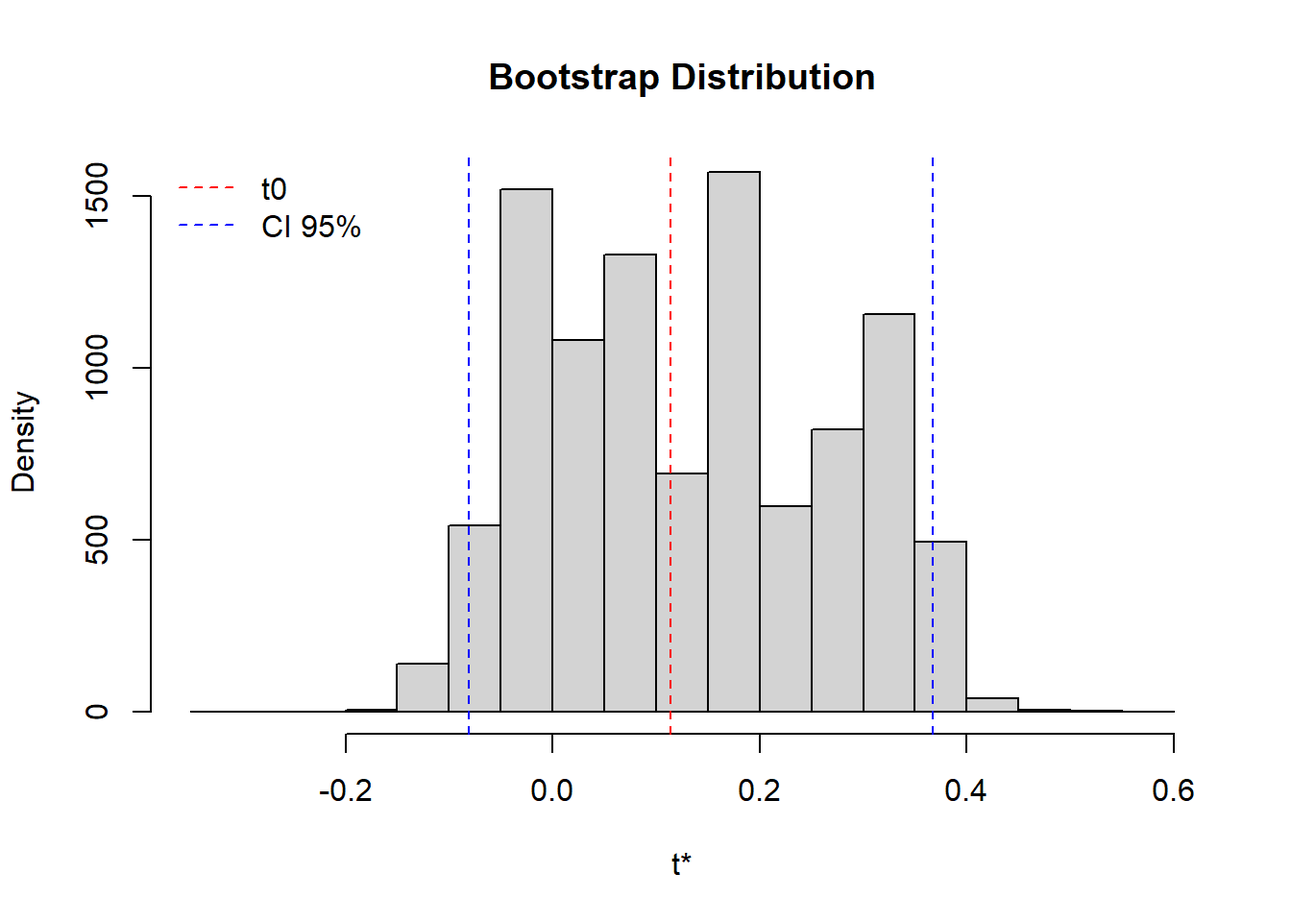
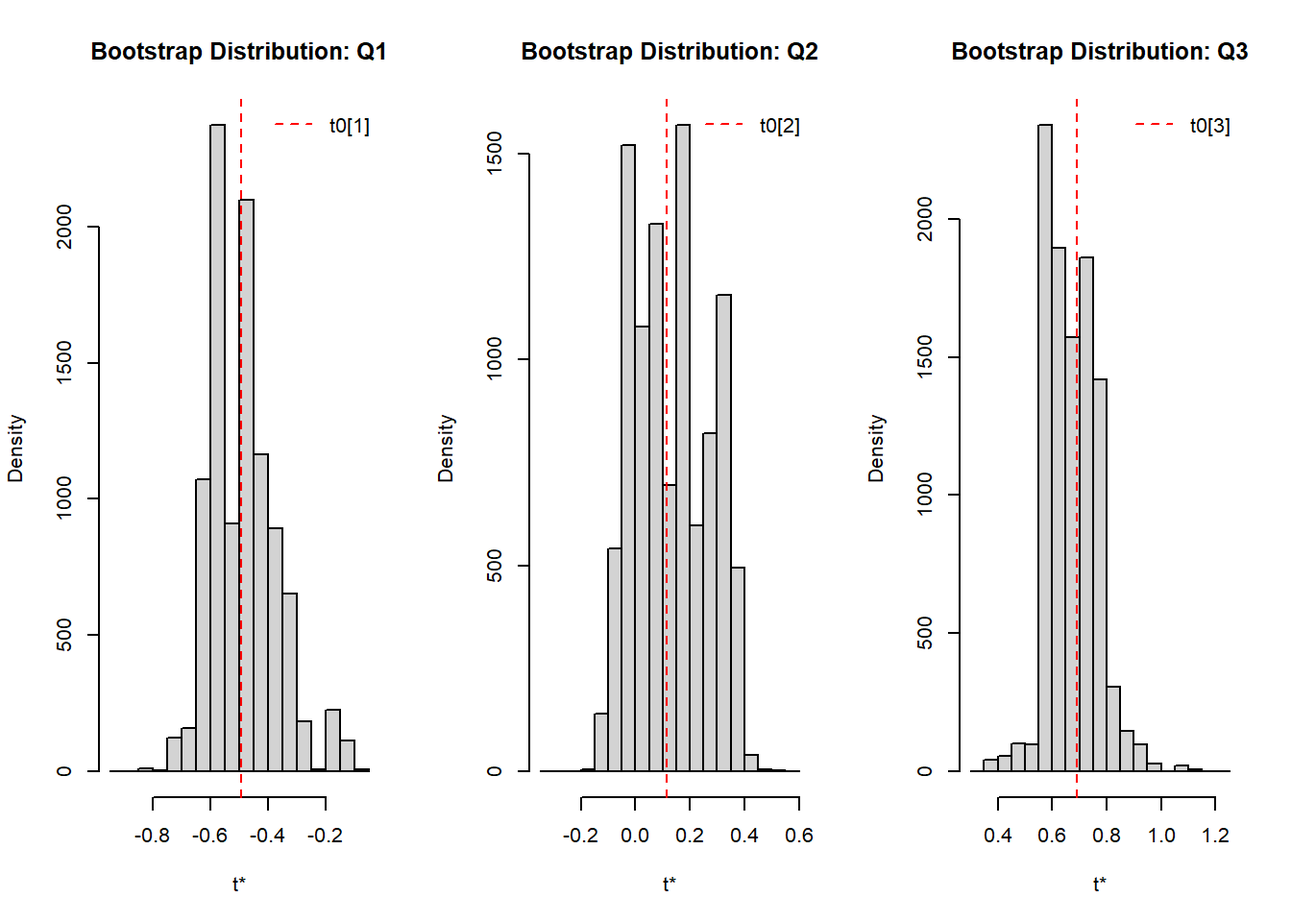
update latest posts

diff --git a/_site/posts/bootstrapping/bootstrapping.html b/_site/posts/bootstrapping/bootstrapping.html
@@ -206,8 +206,7 @@ pre > code.sourceCode > span > a:first-child::before { text-decoration: underlin
   <li><a href="#monte-carlo-simulation" id="toc-monte-carlo-simulation" class="nav-link" data-scroll-target="#monte-carlo-simulation">Monte Carlo Simulation</a></li>
   <li><a href="#r-code" id="toc-r-code" class="nav-link" data-scroll-target="#r-code">R code</a>
   <ul class="collapse">
-  <li><a href="#example-1-univariate-statistic-median" id="toc-example-1-univariate-statistic-median" class="nav-link" data-scroll-target="#example-1-univariate-statistic-median">Example 1 <strong>–</strong> Univariate Statistic (Median)</a></li>
-  <li><a href="#example-2-multivariate-statistic-median" id="toc-example-2-multivariate-statistic-median" class="nav-link" data-scroll-target="#example-2-multivariate-statistic-median">Example 2 <strong>–</strong> Multivariate Statistic (Median)</a></li>
+  <li><a href="#example-1-multivariate-statistic-median" id="toc-example-1-multivariate-statistic-median" class="nav-link" data-scroll-target="#example-1-multivariate-statistic-median">Example 1 <strong>–</strong> Multivariate Statistic (Median)</a></li>
   </ul></li>
   </ul>
 </nav>
@@ -344,11 +343,11 @@ Note
 <li><p>bootstrap</p></li>
 <li><p>nptest</p></li>
 </ul>
-<section id="example-1-univariate-statistic-median" class="level3">
-<h3 class="anchored" data-anchor-id="example-1-univariate-statistic-median">Example 1 <strong>–</strong> Univariate Statistic (Median)</h3>
-<p>For this example, we will generate <span class="math inline">\(n = 100\)</span> observations from a standard normal distribution, and use the median as the parameter/statistic of interest. Note that the true (population) median is zero. Since the median is a univariate statistic, the bootstrap distribution will be a vector of length <span class="math inline">\(R + 1\)</span> containing the bootstrap replicates of the median.</p>
+<section id="example-1-multivariate-statistic-median" class="level3">
+<h3 class="anchored" data-anchor-id="example-1-multivariate-statistic-median">Example 1 <strong>–</strong> Multivariate Statistic (Median)</h3>
+<p>For this example, we will generate <span class="math inline">\(n = 100\)</span> observations from a standard normal distribution, and use the quartiles as the parameters/statistics of interest. Note that the true (population) quartiles are <span class="math inline">\(Q1 = qnorm(0.25) = -0.6744898\)</span>, <span class="math inline">\(Q2 = qnorm(0.5) = 0\)</span>, and <span class="math inline">\(Q3 = qnorm(0.75) = 0.6744898\)</span>. Since the quartiles are a multivariate statistic, the bootstrap distribution will be a matrix of dimension <span class="math inline">\(R + 1 × 3\)</span>, where each column contains the bootstrap replicates of the corresponding quartile.</p>
 <div class="cell">
-<div class="sourceCode cell-code" id="cb1"><pre class="sourceCode r code-with-copy"><code class="sourceCode r"><span id="cb1-1"><a href="#cb1-1" aria-hidden="true" tabindex="-1"></a><span class="co"># Univariate Statistic (Median)</span></span>
+<div class="sourceCode cell-code" id="cb1"><pre class="sourceCode r code-with-copy"><code class="sourceCode r"><span id="cb1-1"><a href="#cb1-1" aria-hidden="true" tabindex="-1"></a><span class="co"># Multivariate Statistic (Quartiles)</span></span>
 <span id="cb1-2"><a href="#cb1-2" aria-hidden="true" tabindex="-1"></a></span>
 <span id="cb1-3"><a href="#cb1-3" aria-hidden="true" tabindex="-1"></a><span class="fu">library</span>(nptest)</span></code><button title="Copy to Clipboard" class="code-copy-button"><i class="bi"></i></button></pre></div>
 <div class="cell-output cell-output-stderr">
@@ -360,86 +359,11 @@ Type 'citation("nptest")' to cite this package.</code></pre>
 <span id="cb3-3"><a href="#cb3-3" aria-hidden="true" tabindex="-1"></a>n <span class="ot">&lt;-</span> <span class="dv">100</span></span>
 <span id="cb3-4"><a href="#cb3-4" aria-hidden="true" tabindex="-1"></a>x <span class="ot">&lt;-</span> <span class="fu">rnorm</span>(n)</span>
 <span id="cb3-5"><a href="#cb3-5" aria-hidden="true" tabindex="-1"></a></span>
-<span id="cb3-6"><a href="#cb3-6" aria-hidden="true" tabindex="-1"></a><span class="co"># nonparametric bootstrap</span></span>
-<span id="cb3-7"><a href="#cb3-7" aria-hidden="true" tabindex="-1"></a>npbs <span class="ot">&lt;-</span> <span class="fu">np.boot</span>(<span class="at">x =</span> x, <span class="at">statistic =</span> median)</span>
-<span id="cb3-8"><a href="#cb3-8" aria-hidden="true" tabindex="-1"></a>npbs</span></code><button title="Copy to Clipboard" class="code-copy-button"><i class="bi"></i></button></pre></div>
-<div class="cell-output cell-output-stdout">
-<pre><code>
-Nonparametric Bootstrap of Univariate Statistic
-using R = 9999 bootstrap replicates
-
-  t0: 0.1139
-  SE: 0.1394
-Bias: 0.0185 
-
-BCa Confidence Intervals:
-      lower  upper
-90% -0.0566 0.3411
-95% -0.0811 0.3673
-99% -0.1351 0.3940</code></pre>
-</div>
-<div class="sourceCode cell-code" id="cb5"><pre class="sourceCode r code-with-copy"><code class="sourceCode r"><span id="cb5-1"><a href="#cb5-1" aria-hidden="true" tabindex="-1"></a><span class="co"># check t0, SE, and bias</span></span>
-<span id="cb5-2"><a href="#cb5-2" aria-hidden="true" tabindex="-1"></a><span class="fu">median</span>(x)                          <span class="co"># t0</span></span></code><button title="Copy to Clipboard" class="code-copy-button"><i class="bi"></i></button></pre></div>
-<div class="cell-output cell-output-stdout">
-<pre><code>[1] 0.1139092</code></pre>
-</div>
-<div class="sourceCode cell-code" id="cb7"><pre class="sourceCode r code-with-copy"><code class="sourceCode r"><span id="cb7-1"><a href="#cb7-1" aria-hidden="true" tabindex="-1"></a><span class="fu">sd</span>(npbs<span class="sc">$</span>boot.dist)                 <span class="co"># SE</span></span></code><button title="Copy to Clipboard" class="code-copy-button"><i class="bi"></i></button></pre></div>
-<div class="cell-output cell-output-stdout">
-<pre><code>[1] 0.1393567</code></pre>
-</div>
-<div class="sourceCode cell-code" id="cb9"><pre class="sourceCode r code-with-copy"><code class="sourceCode r"><span id="cb9-1"><a href="#cb9-1" aria-hidden="true" tabindex="-1"></a><span class="fu">mean</span>(npbs<span class="sc">$</span>boot.dist) <span class="sc">-</span> npbs<span class="sc">$</span>t0     <span class="co"># Bias</span></span></code><button title="Copy to Clipboard" class="code-copy-button"><i class="bi"></i></button></pre></div>
-<div class="cell-output cell-output-stdout">
-<pre><code>[1] 0.01845341</code></pre>
-</div>
-<div class="sourceCode cell-code" id="cb11"><pre class="sourceCode r code-with-copy"><code class="sourceCode r"><span id="cb11-1"><a href="#cb11-1" aria-hidden="true" tabindex="-1"></a><span class="co"># bootstrap distribution</span></span>
-<span id="cb11-2"><a href="#cb11-2" aria-hidden="true" tabindex="-1"></a><span class="fu">hist</span>(npbs<span class="sc">$</span>boot.dist,</span>
-<span id="cb11-3"><a href="#cb11-3" aria-hidden="true" tabindex="-1"></a>     <span class="at">xlab =</span> <span class="st">"t*"</span>,</span>
-<span id="cb11-4"><a href="#cb11-4" aria-hidden="true" tabindex="-1"></a>     <span class="at">ylab =</span> <span class="st">"Density"</span>,</span>
-<span id="cb11-5"><a href="#cb11-5" aria-hidden="true" tabindex="-1"></a>     <span class="at">main =</span> <span class="st">"Bootstrap Distribution"</span>)</span>
-<span id="cb11-6"><a href="#cb11-6" aria-hidden="true" tabindex="-1"></a></span>
-<span id="cb11-7"><a href="#cb11-7" aria-hidden="true" tabindex="-1"></a><span class="co"># Observed media</span></span>
-<span id="cb11-8"><a href="#cb11-8" aria-hidden="true" tabindex="-1"></a><span class="fu">abline</span>(<span class="at">v =</span> npbs<span class="sc">$</span>t0,</span>
-<span id="cb11-9"><a href="#cb11-9" aria-hidden="true" tabindex="-1"></a>       <span class="at">lty =</span> <span class="dv">2</span>,</span>
-<span id="cb11-10"><a href="#cb11-10" aria-hidden="true" tabindex="-1"></a>       <span class="at">col =</span> <span class="st">"red"</span>)</span>
-<span id="cb11-11"><a href="#cb11-11" aria-hidden="true" tabindex="-1"></a></span>
-<span id="cb11-12"><a href="#cb11-12" aria-hidden="true" tabindex="-1"></a><span class="co"># CI 95% lower boundary</span></span>
-<span id="cb11-13"><a href="#cb11-13" aria-hidden="true" tabindex="-1"></a><span class="fu">abline</span>(<span class="at">v =</span> npbs<span class="sc">$</span>bca[<span class="dv">2</span>, <span class="dv">1</span>],</span>
-<span id="cb11-14"><a href="#cb11-14" aria-hidden="true" tabindex="-1"></a>       <span class="at">lty =</span> <span class="dv">2</span>,</span>
-<span id="cb11-15"><a href="#cb11-15" aria-hidden="true" tabindex="-1"></a>       <span class="at">col =</span> <span class="st">"blue"</span>)</span>
-<span id="cb11-16"><a href="#cb11-16" aria-hidden="true" tabindex="-1"></a></span>
-<span id="cb11-17"><a href="#cb11-17" aria-hidden="true" tabindex="-1"></a><span class="co"># CI 95% upper boundary</span></span>
-<span id="cb11-18"><a href="#cb11-18" aria-hidden="true" tabindex="-1"></a><span class="fu">abline</span>(<span class="at">v =</span> npbs<span class="sc">$</span>bca[<span class="dv">2</span>, <span class="dv">2</span>],</span>
-<span id="cb11-19"><a href="#cb11-19" aria-hidden="true" tabindex="-1"></a>       <span class="at">lty =</span> <span class="dv">2</span>,</span>
-<span id="cb11-20"><a href="#cb11-20" aria-hidden="true" tabindex="-1"></a>       <span class="at">col =</span> <span class="st">"blue"</span>)</span>
-<span id="cb11-21"><a href="#cb11-21" aria-hidden="true" tabindex="-1"></a></span>
-<span id="cb11-22"><a href="#cb11-22" aria-hidden="true" tabindex="-1"></a><span class="fu">legend</span>(</span>
-<span id="cb11-23"><a href="#cb11-23" aria-hidden="true" tabindex="-1"></a>  <span class="st">"topleft"</span>,</span>
-<span id="cb11-24"><a href="#cb11-24" aria-hidden="true" tabindex="-1"></a>  <span class="at">legend =</span> <span class="fu">c</span>(<span class="st">"t0"</span>, <span class="st">"CI 95%"</span>),</span>
-<span id="cb11-25"><a href="#cb11-25" aria-hidden="true" tabindex="-1"></a>  <span class="at">col =</span> <span class="fu">c</span>(<span class="st">"red"</span>, <span class="st">"blue"</span>),</span>
-<span id="cb11-26"><a href="#cb11-26" aria-hidden="true" tabindex="-1"></a>  <span class="at">lty =</span> <span class="dv">2</span>,</span>
-<span id="cb11-27"><a href="#cb11-27" aria-hidden="true" tabindex="-1"></a>  <span class="at">bty =</span> <span class="st">"n"</span></span>
-<span id="cb11-28"><a href="#cb11-28" aria-hidden="true" tabindex="-1"></a>)</span></code><button title="Copy to Clipboard" class="code-copy-button"><i class="bi"></i></button></pre></div>
-<div class="cell-output-display">
-<p><img src="bootstrapping_files/figure-html/unnamed-chunk-1-1.png" class="img-fluid" width="672"></p>
-</div>
-</div>
-</section>
-<section id="example-2-multivariate-statistic-median" class="level3">
-<h3 class="anchored" data-anchor-id="example-2-multivariate-statistic-median">Example 2 <strong>–</strong> Multivariate Statistic (Median)</h3>
-<p>For this example, we will generate <span class="math inline">\(n = 100\)</span> observations from a standard normal distribution, and use the quartiles as the parameters/statistics of interest. Note that the true (population) quartiles are <span class="math inline">\(Q1 = qnorm(0.25) = -0.6744898\)</span>, <span class="math inline">\(Q2 = qnorm(0.5) = 0\)</span>, and <span class="math inline">\(Q3 = qnorm(0.75) = 0.6744898\)</span>. Since the quartiles are a multivariate statistic, the bootstrap distribution will be a matrix of dimension <span class="math inline">\(R + 1 × 3\)</span>, where each column contains the bootstrap replicates of the corresponding quartile.</p>
-<div class="cell">
-<div class="sourceCode cell-code" id="cb12"><pre class="sourceCode r code-with-copy"><code class="sourceCode r"><span id="cb12-1"><a href="#cb12-1" aria-hidden="true" tabindex="-1"></a><span class="co"># Multivariate Statistic (Quartiles)</span></span>
-<span id="cb12-2"><a href="#cb12-2" aria-hidden="true" tabindex="-1"></a></span>
-<span id="cb12-3"><a href="#cb12-3" aria-hidden="true" tabindex="-1"></a><span class="co"># generate 100 standard normal observations</span></span>
-<span id="cb12-4"><a href="#cb12-4" aria-hidden="true" tabindex="-1"></a><span class="fu">set.seed</span>(<span class="dv">1</span>)</span>
-<span id="cb12-5"><a href="#cb12-5" aria-hidden="true" tabindex="-1"></a>n <span class="ot">&lt;-</span> <span class="dv">100</span></span>
-<span id="cb12-6"><a href="#cb12-6" aria-hidden="true" tabindex="-1"></a>x <span class="ot">&lt;-</span> <span class="fu">rnorm</span>(n)</span>
-<span id="cb12-7"><a href="#cb12-7" aria-hidden="true" tabindex="-1"></a></span>
-<span id="cb12-8"><a href="#cb12-8" aria-hidden="true" tabindex="-1"></a><span class="co"># nonparametric bootstrap (using ... to enter 'probs' argument)</span></span>
-<span id="cb12-9"><a href="#cb12-9" aria-hidden="true" tabindex="-1"></a>npbs <span class="ot">&lt;-</span> <span class="fu">np.boot</span>(<span class="at">x =</span> x,</span>
-<span id="cb12-10"><a href="#cb12-10" aria-hidden="true" tabindex="-1"></a>                <span class="at">statistic =</span> quantile,</span>
-<span id="cb12-11"><a href="#cb12-11" aria-hidden="true" tabindex="-1"></a>                <span class="at">probs =</span> <span class="fu">c</span>(<span class="fl">0.25</span>, <span class="fl">0.5</span>, <span class="fl">0.75</span>))</span>
-<span id="cb12-12"><a href="#cb12-12" aria-hidden="true" tabindex="-1"></a>npbs</span></code><button title="Copy to Clipboard" class="code-copy-button"><i class="bi"></i></button></pre></div>
+<span id="cb3-6"><a href="#cb3-6" aria-hidden="true" tabindex="-1"></a><span class="co"># nonparametric bootstrap (using ... to enter 'probs' argument)</span></span>
+<span id="cb3-7"><a href="#cb3-7" aria-hidden="true" tabindex="-1"></a>npbs <span class="ot">&lt;-</span> <span class="fu">np.boot</span>(<span class="at">x =</span> x,</span>
+<span id="cb3-8"><a href="#cb3-8" aria-hidden="true" tabindex="-1"></a>                <span class="at">statistic =</span> quantile,</span>
+<span id="cb3-9"><a href="#cb3-9" aria-hidden="true" tabindex="-1"></a>                <span class="at">probs =</span> <span class="fu">c</span>(<span class="fl">0.25</span>, <span class="fl">0.5</span>, <span class="fl">0.75</span>))</span>
+<span id="cb3-10"><a href="#cb3-10" aria-hidden="true" tabindex="-1"></a>npbs</span></code><button title="Copy to Clipboard" class="code-copy-button"><i class="bi"></i></button></pre></div>
 <div class="cell-output cell-output-stdout">
 <pre><code>
 Nonparametric Bootstrap of Multivariate Statistic
@@ -455,28 +379,28 @@ Bias:  0.0058 0.0185 -0.0170
 lower -0.6941 -0.0811 0.5047
 upper -0.2534  0.3673 0.8811</code></pre>
 </div>
-<div class="sourceCode cell-code" id="cb14"><pre class="sourceCode r code-with-copy"><code class="sourceCode r"><span id="cb14-1"><a href="#cb14-1" aria-hidden="true" tabindex="-1"></a><span class="co"># bootstrap distribution</span></span>
-<span id="cb14-2"><a href="#cb14-2" aria-hidden="true" tabindex="-1"></a><span class="fu">par</span>(<span class="at">mfrow =</span> <span class="fu">c</span>(<span class="dv">1</span>, <span class="dv">3</span>))</span>
-<span id="cb14-3"><a href="#cb14-3" aria-hidden="true" tabindex="-1"></a><span class="cf">for</span> (j <span class="cf">in</span> <span class="dv">1</span><span class="sc">:</span><span class="dv">3</span>) {</span>
-<span id="cb14-4"><a href="#cb14-4" aria-hidden="true" tabindex="-1"></a>  <span class="fu">hist</span>(</span>
-<span id="cb14-5"><a href="#cb14-5" aria-hidden="true" tabindex="-1"></a>    npbs<span class="sc">$</span>boot.dist[, j],</span>
-<span id="cb14-6"><a href="#cb14-6" aria-hidden="true" tabindex="-1"></a>    <span class="at">xlab =</span> <span class="st">"t*"</span>,</span>
-<span id="cb14-7"><a href="#cb14-7" aria-hidden="true" tabindex="-1"></a>    <span class="at">ylab =</span> <span class="st">"Density"</span>,</span>
-<span id="cb14-8"><a href="#cb14-8" aria-hidden="true" tabindex="-1"></a>    <span class="at">main =</span> <span class="fu">paste0</span>(<span class="st">"Bootstrap Distribution"</span>, <span class="st">": Q"</span>, j)</span>
-<span id="cb14-9"><a href="#cb14-9" aria-hidden="true" tabindex="-1"></a>  )</span>
-<span id="cb14-10"><a href="#cb14-10" aria-hidden="true" tabindex="-1"></a>  <span class="fu">abline</span>(<span class="at">v =</span> npbs<span class="sc">$</span>t0[j],</span>
-<span id="cb14-11"><a href="#cb14-11" aria-hidden="true" tabindex="-1"></a>         <span class="at">lty =</span> <span class="dv">2</span>,</span>
-<span id="cb14-12"><a href="#cb14-12" aria-hidden="true" tabindex="-1"></a>         <span class="at">col =</span> <span class="st">"red"</span>)</span>
-<span id="cb14-13"><a href="#cb14-13" aria-hidden="true" tabindex="-1"></a>  <span class="fu">legend</span>(</span>
-<span id="cb14-14"><a href="#cb14-14" aria-hidden="true" tabindex="-1"></a>    <span class="st">"topright"</span>,</span>
-<span id="cb14-15"><a href="#cb14-15" aria-hidden="true" tabindex="-1"></a>    <span class="fu">paste0</span>(<span class="st">"t0["</span>, j, <span class="st">"]"</span>),</span>
-<span id="cb14-16"><a href="#cb14-16" aria-hidden="true" tabindex="-1"></a>    <span class="at">lty =</span> <span class="dv">2</span>,</span>
-<span id="cb14-17"><a href="#cb14-17" aria-hidden="true" tabindex="-1"></a>    <span class="at">col =</span> <span class="st">"red"</span>,</span>
-<span id="cb14-18"><a href="#cb14-18" aria-hidden="true" tabindex="-1"></a>    <span class="at">bty =</span> <span class="st">"n"</span></span>
-<span id="cb14-19"><a href="#cb14-19" aria-hidden="true" tabindex="-1"></a>  )</span>
-<span id="cb14-20"><a href="#cb14-20" aria-hidden="true" tabindex="-1"></a>}</span></code><button title="Copy to Clipboard" class="code-copy-button"><i class="bi"></i></button></pre></div>
+<div class="sourceCode cell-code" id="cb5"><pre class="sourceCode r code-with-copy"><code class="sourceCode r"><span id="cb5-1"><a href="#cb5-1" aria-hidden="true" tabindex="-1"></a><span class="co"># bootstrap distribution</span></span>
+<span id="cb5-2"><a href="#cb5-2" aria-hidden="true" tabindex="-1"></a><span class="fu">par</span>(<span class="at">mfrow =</span> <span class="fu">c</span>(<span class="dv">1</span>, <span class="dv">3</span>))</span>
+<span id="cb5-3"><a href="#cb5-3" aria-hidden="true" tabindex="-1"></a><span class="cf">for</span> (j <span class="cf">in</span> <span class="dv">1</span><span class="sc">:</span><span class="dv">3</span>) {</span>
+<span id="cb5-4"><a href="#cb5-4" aria-hidden="true" tabindex="-1"></a>  <span class="fu">hist</span>(</span>
+<span id="cb5-5"><a href="#cb5-5" aria-hidden="true" tabindex="-1"></a>    npbs<span class="sc">$</span>boot.dist[, j],</span>
+<span id="cb5-6"><a href="#cb5-6" aria-hidden="true" tabindex="-1"></a>    <span class="at">xlab =</span> <span class="st">"t*"</span>,</span>
+<span id="cb5-7"><a href="#cb5-7" aria-hidden="true" tabindex="-1"></a>    <span class="at">ylab =</span> <span class="st">"Density"</span>,</span>
+<span id="cb5-8"><a href="#cb5-8" aria-hidden="true" tabindex="-1"></a>    <span class="at">main =</span> <span class="fu">paste0</span>(<span class="st">"Bootstrap Distribution"</span>, <span class="st">": Q"</span>, j)</span>
+<span id="cb5-9"><a href="#cb5-9" aria-hidden="true" tabindex="-1"></a>  )</span>
+<span id="cb5-10"><a href="#cb5-10" aria-hidden="true" tabindex="-1"></a>  <span class="fu">abline</span>(<span class="at">v =</span> npbs<span class="sc">$</span>t0[j],</span>
+<span id="cb5-11"><a href="#cb5-11" aria-hidden="true" tabindex="-1"></a>         <span class="at">lty =</span> <span class="dv">2</span>,</span>
+<span id="cb5-12"><a href="#cb5-12" aria-hidden="true" tabindex="-1"></a>         <span class="at">col =</span> <span class="st">"red"</span>)</span>
+<span id="cb5-13"><a href="#cb5-13" aria-hidden="true" tabindex="-1"></a>  <span class="fu">legend</span>(</span>
+<span id="cb5-14"><a href="#cb5-14" aria-hidden="true" tabindex="-1"></a>    <span class="st">"topright"</span>,</span>
+<span id="cb5-15"><a href="#cb5-15" aria-hidden="true" tabindex="-1"></a>    <span class="fu">paste0</span>(<span class="st">"t0["</span>, j, <span class="st">"]"</span>),</span>
+<span id="cb5-16"><a href="#cb5-16" aria-hidden="true" tabindex="-1"></a>    <span class="at">lty =</span> <span class="dv">2</span>,</span>
+<span id="cb5-17"><a href="#cb5-17" aria-hidden="true" tabindex="-1"></a>    <span class="at">col =</span> <span class="st">"red"</span>,</span>
+<span id="cb5-18"><a href="#cb5-18" aria-hidden="true" tabindex="-1"></a>    <span class="at">bty =</span> <span class="st">"n"</span></span>
+<span id="cb5-19"><a href="#cb5-19" aria-hidden="true" tabindex="-1"></a>  )</span>
+<span id="cb5-20"><a href="#cb5-20" aria-hidden="true" tabindex="-1"></a>}</span></code><button title="Copy to Clipboard" class="code-copy-button"><i class="bi"></i></button></pre></div>
 <div class="cell-output-display">
-<p><img src="bootstrapping_files/figure-html/unnamed-chunk-2-1.png" class="img-fluid" width="672"></p>
+<p><img src="bootstrapping_files/figure-html/unnamed-chunk-1-1.png" class="img-fluid" width="672"></p>
 </div>
 </div>
 

diff --git a/_site/posts/confidence interval/confidence interval.html b/_site/posts/confidence interval/confidence interval.html
@@ -203,7 +203,10 @@ pre > code.sourceCode > span > a:first-child::before { text-decoration: underlin
   <li><a href="#example" id="toc-example" class="nav-link" data-scroll-target="#example">Example</a></li>
   <li><a href="#z-distribution" id="toc-z-distribution" class="nav-link" data-scroll-target="#z-distribution">Z-Distribution</a></li>
   <li><a href="#three-sigma-rule" id="toc-three-sigma-rule" class="nav-link" data-scroll-target="#three-sigma-rule">Three Sigma Rule</a></li>
-  <li><a href="#r-code" id="toc-r-code" class="nav-link" data-scroll-target="#r-code">R code</a></li>
+  <li><a href="#r-code" id="toc-r-code" class="nav-link" data-scroll-target="#r-code">R code</a>
+  <ul class="collapse">
+  <li><a href="#section" id="toc-section" class="nav-link" data-scroll-target="#section"></a></li>
+  </ul></li>
   </ul>
 </nav>
     </div>
@@ -389,9 +392,11 @@ Note
 </div>
 <p>The 95% confidence interval is <code>[25.3, 29.7]</code>.</p>
 <p><strong>Example 2 – Univariate Statistic (Median)</strong></p>
-<p>Generate <span class="math inline">\(n=100\)</span> observations from a standard normal distribution, and use the median as the statistic of interest. Note that the true (population) median is zero. Since the median is a univariate statistic, the bootstrap distribution will be a vector of length <span class="math inline">\(R+1\)</span> containing the bootstrap replicates of the median.</p>
+<p>For this example, we will generate <span class="math inline">\(n = 100\)</span> observations from a standard normal distribution, and use the median as the parameter/statistic of interest. Note that the true (population) median is zero. Since the median is a univariate statistic, the bootstrap distribution will be a vector of length <span class="math inline">\(R + 1\)</span> containing the bootstrap replicates of the median.</p>
 <div class="cell">
-<div class="sourceCode cell-code" id="cb6"><pre class="sourceCode r code-with-copy"><code class="sourceCode r"><span id="cb6-1"><a href="#cb6-1" aria-hidden="true" tabindex="-1"></a><span class="fu">library</span>(nptest)</span></code><button title="Copy to Clipboard" class="code-copy-button"><i class="bi"></i></button></pre></div>
+<div class="sourceCode cell-code" id="cb6"><pre class="sourceCode r code-with-copy"><code class="sourceCode r"><span id="cb6-1"><a href="#cb6-1" aria-hidden="true" tabindex="-1"></a><span class="co"># Univariate Statistic (Median)</span></span>
+<span id="cb6-2"><a href="#cb6-2" aria-hidden="true" tabindex="-1"></a></span>
+<span id="cb6-3"><a href="#cb6-3" aria-hidden="true" tabindex="-1"></a><span class="fu">library</span>(nptest)</span></code><button title="Copy to Clipboard" class="code-copy-button"><i class="bi"></i></button></pre></div>
 <div class="cell-output cell-output-stderr">
 <pre><code>Package 'nptest' version 1.1
 Type 'citation("nptest")' to cite this package.</code></pre>
@@ -433,17 +438,42 @@ BCa Confidence Intervals:
 <pre><code>[1] 0.01845341</code></pre>
 </div>
 <div class="sourceCode cell-code" id="cb16"><pre class="sourceCode r code-with-copy"><code class="sourceCode r"><span id="cb16-1"><a href="#cb16-1" aria-hidden="true" tabindex="-1"></a><span class="co"># bootstrap distribution</span></span>
-<span id="cb16-2"><a href="#cb16-2" aria-hidden="true" tabindex="-1"></a><span class="fu">hist</span>(npbs<span class="sc">$</span>boot.dist, <span class="at">xlab =</span> <span class="st">"Statistic"</span>, <span class="at">main =</span> <span class="st">"Bootstrap Distribution"</span>)</span>
-<span id="cb16-3"><a href="#cb16-3" aria-hidden="true" tabindex="-1"></a><span class="fu">box</span>()</span>
-<span id="cb16-4"><a href="#cb16-4" aria-hidden="true" tabindex="-1"></a><span class="fu">abline</span>(<span class="at">v =</span> npbs<span class="sc">$</span>t0, <span class="at">lty =</span> <span class="dv">2</span>, <span class="at">col =</span> <span class="st">"red"</span>)</span>
-<span id="cb16-5"><a href="#cb16-5" aria-hidden="true" tabindex="-1"></a><span class="fu">legend</span>(<span class="st">"topleft"</span>, <span class="st">"t0"</span>, <span class="at">lty =</span> <span class="dv">2</span>, <span class="at">col =</span> <span class="st">"red"</span>, <span class="at">bty =</span> <span class="st">"n"</span>)</span></code><button title="Copy to Clipboard" class="code-copy-button"><i class="bi"></i></button></pre></div>
+<span id="cb16-2"><a href="#cb16-2" aria-hidden="true" tabindex="-1"></a><span class="fu">hist</span>(npbs<span class="sc">$</span>boot.dist,</span>
+<span id="cb16-3"><a href="#cb16-3" aria-hidden="true" tabindex="-1"></a>     <span class="at">xlab =</span> <span class="st">"t*"</span>,</span>
+<span id="cb16-4"><a href="#cb16-4" aria-hidden="true" tabindex="-1"></a>     <span class="at">ylab =</span> <span class="st">"Density"</span>,</span>
+<span id="cb16-5"><a href="#cb16-5" aria-hidden="true" tabindex="-1"></a>     <span class="at">main =</span> <span class="st">"Bootstrap Distribution"</span>)</span>
+<span id="cb16-6"><a href="#cb16-6" aria-hidden="true" tabindex="-1"></a></span>
+<span id="cb16-7"><a href="#cb16-7" aria-hidden="true" tabindex="-1"></a><span class="co"># Observed media</span></span>
+<span id="cb16-8"><a href="#cb16-8" aria-hidden="true" tabindex="-1"></a><span class="fu">abline</span>(<span class="at">v =</span> npbs<span class="sc">$</span>t0,</span>
+<span id="cb16-9"><a href="#cb16-9" aria-hidden="true" tabindex="-1"></a>       <span class="at">lty =</span> <span class="dv">2</span>,</span>
+<span id="cb16-10"><a href="#cb16-10" aria-hidden="true" tabindex="-1"></a>       <span class="at">col =</span> <span class="st">"red"</span>)</span>
+<span id="cb16-11"><a href="#cb16-11" aria-hidden="true" tabindex="-1"></a></span>
+<span id="cb16-12"><a href="#cb16-12" aria-hidden="true" tabindex="-1"></a><span class="co"># CI 95% lower boundary</span></span>
+<span id="cb16-13"><a href="#cb16-13" aria-hidden="true" tabindex="-1"></a><span class="fu">abline</span>(<span class="at">v =</span> npbs<span class="sc">$</span>bca[<span class="dv">2</span>, <span class="dv">1</span>],</span>
+<span id="cb16-14"><a href="#cb16-14" aria-hidden="true" tabindex="-1"></a>       <span class="at">lty =</span> <span class="dv">2</span>,</span>
+<span id="cb16-15"><a href="#cb16-15" aria-hidden="true" tabindex="-1"></a>       <span class="at">col =</span> <span class="st">"blue"</span>)</span>
+<span id="cb16-16"><a href="#cb16-16" aria-hidden="true" tabindex="-1"></a></span>
+<span id="cb16-17"><a href="#cb16-17" aria-hidden="true" tabindex="-1"></a><span class="co"># CI 95% upper boundary</span></span>
+<span id="cb16-18"><a href="#cb16-18" aria-hidden="true" tabindex="-1"></a><span class="fu">abline</span>(<span class="at">v =</span> npbs<span class="sc">$</span>bca[<span class="dv">2</span>, <span class="dv">2</span>],</span>
+<span id="cb16-19"><a href="#cb16-19" aria-hidden="true" tabindex="-1"></a>       <span class="at">lty =</span> <span class="dv">2</span>,</span>
+<span id="cb16-20"><a href="#cb16-20" aria-hidden="true" tabindex="-1"></a>       <span class="at">col =</span> <span class="st">"blue"</span>)</span>
+<span id="cb16-21"><a href="#cb16-21" aria-hidden="true" tabindex="-1"></a></span>
+<span id="cb16-22"><a href="#cb16-22" aria-hidden="true" tabindex="-1"></a><span class="fu">legend</span>(</span>
+<span id="cb16-23"><a href="#cb16-23" aria-hidden="true" tabindex="-1"></a>  <span class="st">"topleft"</span>,</span>
+<span id="cb16-24"><a href="#cb16-24" aria-hidden="true" tabindex="-1"></a>  <span class="at">legend =</span> <span class="fu">c</span>(<span class="st">"t0"</span>, <span class="st">"CI 95%"</span>),</span>
+<span id="cb16-25"><a href="#cb16-25" aria-hidden="true" tabindex="-1"></a>  <span class="at">col =</span> <span class="fu">c</span>(<span class="st">"red"</span>, <span class="st">"blue"</span>),</span>
+<span id="cb16-26"><a href="#cb16-26" aria-hidden="true" tabindex="-1"></a>  <span class="at">lty =</span> <span class="dv">2</span>,</span>
+<span id="cb16-27"><a href="#cb16-27" aria-hidden="true" tabindex="-1"></a>  <span class="at">bty =</span> <span class="st">"n"</span></span>
+<span id="cb16-28"><a href="#cb16-28" aria-hidden="true" tabindex="-1"></a>)</span></code><button title="Copy to Clipboard" class="code-copy-button"><i class="bi"></i></button></pre></div>
 <div class="cell-output-display">
 <p><img src="confidence-interval_files/figure-html/unnamed-chunk-2-1.png" class="img-fluid" width="672"></p>
 </div>
 </div>
-<p>Source: <a href="http://users.stat.umn.edu/~helwig/notes/npboot-notes.html">Nonparametric Bootstrap in R (umn.edu)</a></p>
+<section id="section" class="level3">
+<h3 class="anchored" data-anchor-id="section"></h3>
 
 
+</section>
 </section>
 
 </main> <!-- /main -->

diff --git a/_site/index.html b/_site/index.html
@@ -174,7 +174,7 @@ ul.task-list li input[type="checkbox"] {
 
 <div class="quarto-listing quarto-listing-container-default" id="listing-listing">
 <div class="list quarto-listing-default">
-<div class="quarto-post image-right" data-index="0" data-categories="statistics,risk management" data-listing-date-sort="1690840800000" data-listing-file-modified-sort="1690817720035" data-listing-date-modified-sort="NaN" data-listing-reading-time-sort="8">
+<div class="quarto-post image-right" data-index="0" data-categories="statistics,risk management" data-listing-date-sort="1690840800000" data-listing-file-modified-sort="1690818599016" data-listing-date-modified-sort="NaN" data-listing-reading-time-sort="7">
 <div class="thumbnail">
 <p><a href="./posts/bootstrapping/bootstrapping.html"> <img src="./posts/bootstrapping/bootstrap.jpg" class="thumbnail-image"> </a></p>
 </div>
@@ -212,7 +212,7 @@ Johannes Buck
 </a>
 </div>
 </div>
-<div class="quarto-post image-right" data-index="1" data-categories="statistics,risk management" data-listing-date-sort="1690668000000" data-listing-file-modified-sort="1690733930144" data-listing-date-modified-sort="NaN" data-listing-reading-time-sort="8">
+<div class="quarto-post image-right" data-index="1" data-categories="statistics,risk management" data-listing-date-sort="1690668000000" data-listing-file-modified-sort="1690818485089" data-listing-date-modified-sort="NaN" data-listing-reading-time-sort="8">
 <div class="thumbnail">
 <p><a href="./posts/confidence interval/confidence interval.html"> <img src="./posts/confidence interval/teaser_image.png" class="thumbnail-image"> </a></p>
 </div>
